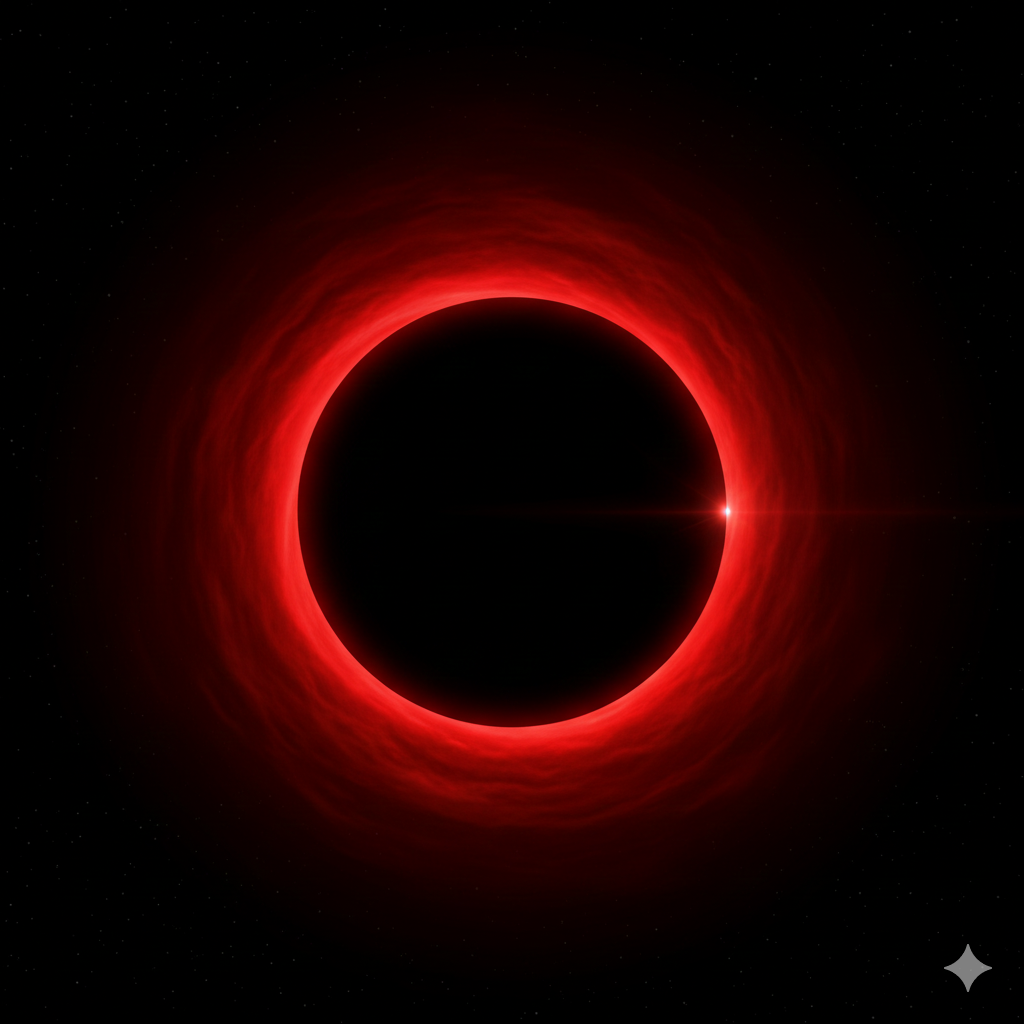
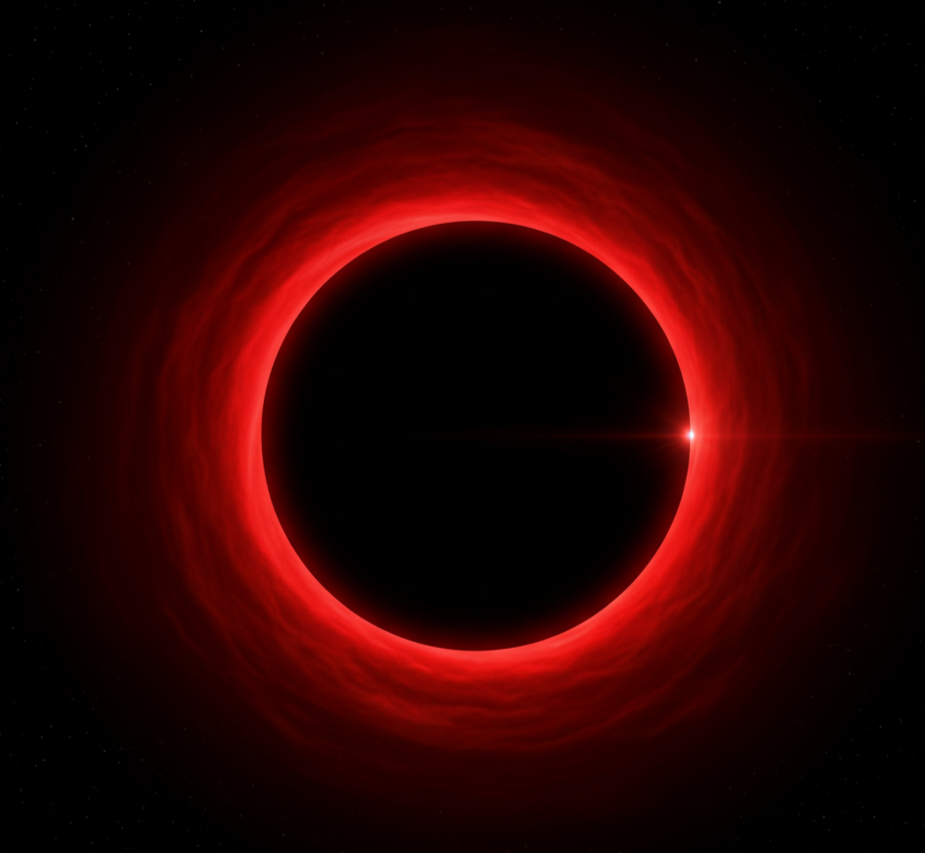
Update team section with new member cards, replace hero image, and remove unused images

diff --git a/index.html b/index.html
@@ -81,7 +81,7 @@
         </p>
 
         <div class="story_hero_image hover-global" data-animate="right">
-          <img src="pictures/robin.jpeg" alt="Robin hero" />
+          <img src="pictures/robin1.jpeg" alt="Robin hero" />
         </div>
       </div>
     </section>
@@ -182,10 +182,7 @@
 
     <section id="teamSection" class="team_section">
       <div class="about_container">
-        <h1 class="about_title">Our Team</h1>
-        <p class="about_intro">
-          This is the Team section. Replace this with your real content.
-        </p>
+        <p class="about_intro"></p>
       </div>
     </section>
 
@@ -195,6 +192,67 @@
         <p class="about_intro">
           This is the About section. Replace this with your real content.
         </p>
+        <div class="team_cards">
+          <div class="team_card">
+            <div class="team_card_frame">
+              <div class="team_image">
+                <img src="pictures/1.jpg" alt="Amir" />
+              </div>
+              <div class="team_info">
+                <h2 class="team_name">Amir</h2>
+                <p class="team_title">
+                  Développeur Web<br />
+                  Responsable du site vitrine
+                </p>
+              </div>
+            </div>
+          </div>
+
+          <div class="team_card">
+            <div class="team_card_frame">
+              <div class="team_image">
+                <img src="pictures/2.jpg" alt="Rabah" />
+              </div>
+              <div class="team_info">
+                <h2 class="team_name">Rabah</h2>
+                <p class="team_title">
+                  Développeur Web<br />
+                  Responsable du site vitrine
+                </p>
+              </div>
+            </div>
+          </div>
+
+          <div class="team_card">
+            <div class="team_card_frame">
+              <div class="team_image">
+                <img src="pictures/1.jpg" alt="Hamza" />
+              </div>
+              <div class="team_info">
+                <h2 class="team_name">Hamza</h2>
+                <p class="team_title">
+                  Développeur Jeux<br />
+                  Responsable du jeu Idle
+                </p>
+              </div>
+            </div>
+          </div>
+
+          <div class="team_card">
+            <div class="team_card_frame">
+              <div class="team_image">
+                <img src="pictures/2.jpg" alt="Geoffrey" />
+              </div>
+              <div class="team_info">
+                <h2 class="team_name">Geoffrey</h2>
+                <p class="team_title">
+                  Développeur Jeux<br />
+                  Responsable du jeu Idle
+                </p>
+              </div>
+            </div>
+          </div>
+        </div>
       </div>
     </section>
 
